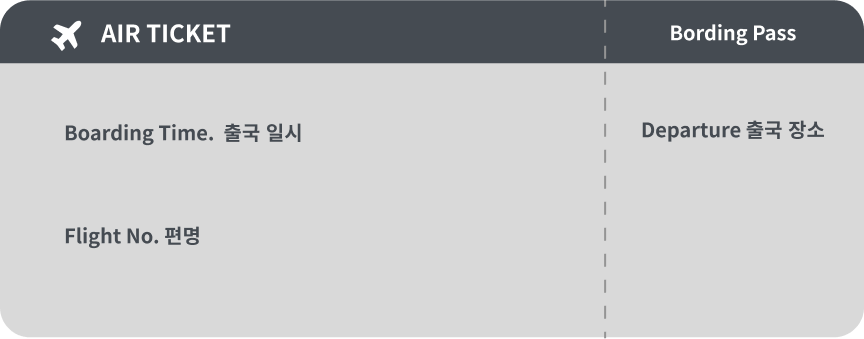
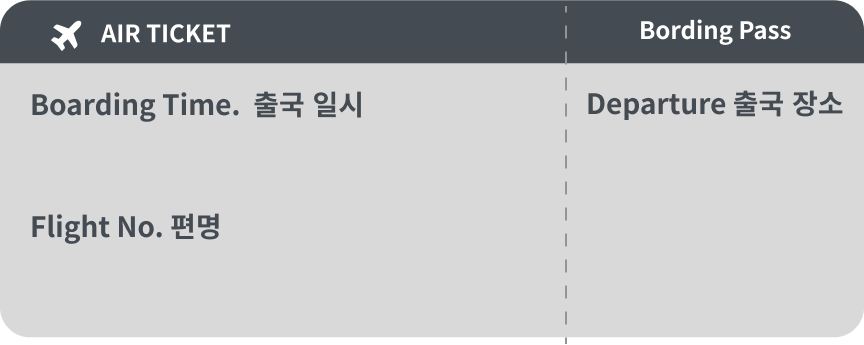
[ADD] 항공편 db html 연동

diff --git a/src/main/resources/templates/Departure.html b/src/main/resources/templates/Departure.html
@@ -6,6 +6,7 @@
     <meta name="viewport" content="width=device-width, initial-scale=1.0">
     <title>아시아나IDT- DUTYFREE</title>
     <link rel="stylesheet" type="text/css" th:href="@{/css/reset.css}">
+    <link rel="stylesheet" type="text/css" th:href="@{/css/airTicket.css}">
     <link rel="stylesheet" type="text/css" th:href="@{/css/product_detail.css}">
     <link rel="stylesheet" type="text/css" th:href="@{/css/cart.css}">
     <link rel="stylesheet" type="text/css" th:href="@{/css/passport.css}">
@@ -13,7 +14,7 @@
     <link rel="stylesheet" type="text/css" th:href="@{/css/header.css}">
     <link rel="stylesheet" type="text/css" th:href="@{/css/footer.css}">
 
-
+    <link rel="stylesheet" type="text/css" href="../static/css/airTicket.css">
     <link rel="stylesheet" type="text/css" href="../static/css/product_detail.css">
     <link rel="stylesheet" type="text/css" href="../static/css/departure.css">
     <link rel="stylesheet" type="text/css" href="../static/css/cart.css">
@@ -28,66 +29,77 @@
         crossorigin="anonymous"></script>
         <script src="https://code.jquery.com/jquery-3.6.0.min.js"></script>
     <script>
-        $(document).ready(function() {
+        function setFlight(date, code, boarding, flightId) {
+            var flightData = {
+                "flightId" : flightId,
+                "flightCode" : code,
+                "flightDate" : date,
+                "boarding" : boarding
+            };
+
+            sessionStorage.setItem("departureInfo", JSON.stringify(flightData));
+            console.log('session data:');
+            console.log(flightData);
+
+        }
+
+        function searchFlight() {
             var flightCode = $('input[name=flightCode]').val();
             var flightDate = $('input[name=flightDate]').val();
-            var boarding = $('#departAt option:selected').val();
+            var boardingEng = $('#departAt option:selected').val();
 
             var data = {
                 "flightCode" : flightCode,
                 "flightDate" : flightDate,
-                "boarding" : boarding
+                "boardingEng" : boardingEng
             };
 
-            $("#flightSearchBtn").click(function() {
-                console.log(data);
+            console.log(data);
 
-                if(airline == '' || flightDate =='' || boarding == '') {
-                    alert('항공편을 입력해주세요.');
-                }
+            if(flightCode == '' || flightDate =='' || boardingEng == '') {
+                alert('항공편을 입력해주세요.');
+            }
 
-                $.ajax({
-                    url: `http://localhost:8080/flight?flightDate=${flightDate}&flightCode=${flightCode}&boarding=${boarding}`,
-                    type: 'GET',
-                    contentType: 'application/json; charset=utf-8',
-                    success: function(result){
-                        console.log(result);
-                    },
-                    error: function(error){
-                        console.log("Error", error);
-                        alert("An error occurred");
+            $.ajax({
+                url: `http://localhost:8080/flight?flightDate=${flightDate}&flightCode=${flightCode}&boarding=${boardingEng}`,
+                type: 'GET',
+                contentType: 'application/json; charset=utf-8',
+                success: function(result){
+                    console.log(result);
+
+                    for (var data of result) {
+                        $('#ticket_list').append(
+                            `<div class="departure_div" onclick="setFlight('${data.flightDate}', '${data.flightCode}', '${data.boardingEng}', '${data.flightId}')">
+                                <img src="/img/main/departure.png" class="departure_img" alt="">
+                                <div class="departure_bordingTime">${data.flightDate}</div>
+                                <div class="departure_FlightNo">${data.flightCode}</div>
+                                <div class="departure_Departure">${data.boardingEng}</div>
+                            </div>`
+                        );
                     }
-                });
 
-            });
-
-            $("#purchaseBtn").click( function(){
-                if(airline == '' || flightDate =='' || boarding == '') {
-                        alert('항공편을 입력해주세요.');
-                        return ;
+                },
+                error: function(error){
+                    console.log("Error", error);
+                    alert("An error occurred");
                 }
-
-                sessionStorage.setItem("departInfo", JSON.stringify(data));
-                console.log(data);
-
-                $.ajax({
-                    url: "http://localhost:8080/purchase",
-                    type: 'POST',
-                    contentType: 'application/json; charset=utf-8',
-                    success: function(result){
-                        console.log(result);
-                    },
-                    error: function(error){
-                        console.log("Error", error);
-                        alert("An error occurred");
-                    }
-                });
-
             });
-    
+        }
 
-                
-        })
+        function purchase() {
+            $.ajax({
+                url: "http://localhost:8080/purchase",
+                type: 'POST',
+                contentType: 'application/json; charset=utf-8',
+                success: function(result){
+                    console.log(result);
+                },
+                error: function(error){
+                    console.log("Error", error);
+                    alert("An error occurred");
+                }
+            });
+        }
     </script>
 </head>
 
@@ -118,9 +130,10 @@
                                             <select class="form_input" id="departAt">
                                                 <option></option>
                                                 <option value="JEJU">제주</option>
-                                                <option value="SEOUL">서울/김포</option>
+                                                <option value="GIMPO">서울/김포</option>
+                                                <option value="DAEGU">대구</option>
                                                 <option value="CHEONGJU">청주</option>
-                                                <option value="">김해</option>
+                                                <option value="GIMHAE">김해</option>
                                             </select>
                                         </span>
                                     </li>
@@ -137,13 +150,13 @@
                                 </ul>                          
                             </div>
                             <div>
-                                <button class="search_departure_btn" id="flightSearchBtn">검색</button>
+                                <button class="search_departure_btn" onclick="searchFlight()">검색</button>
                             </div>
                     </div>
-                    <div class="departure_list">
-                        <div class="departure_table">
-                            
-                        </div>
+
+
+                    <!-- 티켓  -->
+                    <div class="departure_list" id="ticket_list">
                     </div>
                 </div>
                 <div class="login_box">
@@ -177,7 +190,7 @@
                             </div>
                         </div>
                         <div class="cart_btn_box">
-                            <button class="cart_buy_button" id="purchaseBtn">구매하기</button>
+                            <button class="cart_buy_button" onclick="purchase()">구매하기</button>
                         </div>
                     </div>                    
                 </div>

diff --git a/src/main/resources/static/css/airTicket.css b/src/main/resources/static/css/airTicket.css
@@ -1,32 +1,35 @@
 .departure_div {
   position: relative;
-  width: 400px;
+  width: 47%;
   height: auto;
   color: #474747;
+  margin-bottom: 20px;
 }
 .departure_img {
   width: 100%;
 }
 .departure_bordingTime {
   position: absolute;
-  top: 50px;
-  left: 200px;
+  top: 39%;
+  left: 30%;
   font-weight: 600;
-  font-size: 18px;
+  font-size: 1rem;
 }
 
 .departure_FlightNo {
   position: absolute;
-  top: 100px;
-  left: 200px;
+  top: 70%;
+  left: 30%;
   font-weight: 600;
-  font-size: 24px;
+  font-size: 1.25rem;
 }
 
 .departure_Departure {
   position: absolute;
-  top: 100px;
-  left: 300px;
+  top: 43%;
+  left: 73%;
   font-weight: 600;
-  font-size: 24px;
+  font-size: 1rem;
+  width: 19%;
+  text-align: center;
 }

diff --git a/src/main/resources/static/css/departure.css b/src/main/resources/static/css/departure.css
@@ -15,7 +15,7 @@
 }
 
 .search_departure_btn {
-    background-color: #454b52;
+background-color: #454b52;
   border: 0;
   border-radius: 5px;
   font-weight: 500;
@@ -28,5 +28,8 @@
 
 .departure_list {
     display: flex;
-    justify-content: center;
+    justify-content: space-between;
+    flex-wrap: wrap;
+    width: 52vw;
+    padding: 50px;
 }

diff --git a/src/main/resources/static/css/cart.css b/src/main/resources/static/css/cart.css
@@ -6,7 +6,6 @@ a {
 }
 .cart_body {
   width: 100vw;
-  height: 80vh;
   display: flex;
   align-items: center;
   justify-content: center;
@@ -25,7 +24,6 @@ a {
 
 .cart_content {
   width: 52vw;
-  height: 470px;
   display: flex;
   border-top: 5px solid black;
   justify-content: center;

diff --git a/src/main/resources/static/css/passport.css b/src/main/resources/static/css/passport.css
@@ -1,6 +1,5 @@
 .passport_content {
     width: 52vw;
-    height: 470px;
     display: flex;
     border-top: 5px solid black;
     flex-direction: column;

diff --git a/src/main/java/com/asianaidt/dutyfree/domain/purchase/controller/CartController.java b/src/main/java/com/asianaidt/dutyfree/domain/purchase/controller/CartController.java
@@ -1,13 +1,14 @@
 package com.asianaidt.dutyfree.domain.purchase.controller;
 
 import com.asianaidt.dutyfree.domain.member.domain.Flight;
-import com.asianaidt.dutyfree.domain.member.domain.Member;
 import com.asianaidt.dutyfree.domain.product.dto.CategoryListDto;
 import com.asianaidt.dutyfree.domain.product.dto.ProductDto;
 import com.asianaidt.dutyfree.domain.product.service.CategoryService;
 import com.asianaidt.dutyfree.domain.product.service.ProductService;
 import com.asianaidt.dutyfree.domain.purchase.dto.PurchaseDto;
 import com.asianaidt.dutyfree.domain.purchase.dto.cart.CartProductDto;
+import com.asianaidt.dutyfree.domain.purchase.dto.cart.DepartureDto;
+import com.asianaidt.dutyfree.domain.purchase.dto.cart.PassportDto;
 import com.asianaidt.dutyfree.domain.purchase.service.CartService;
 import com.asianaidt.dutyfree.domain.purchase.service.PurchaseService;
 import lombok.RequiredArgsConstructor;
@@ -76,8 +77,13 @@ public class CartController {
 
     @PostMapping("/purchase")
     public String purchase(HttpSession session, @RequestBody PurchaseDto purchaseDto) throws InterruptedException {
-        Member member = (Member) session.getAttribute("member");
-        purchaseService.purchaseMany(member, purchaseDto);
+        PassportDto passportInfo = (PassportDto) session.getAttribute("passportInfo");
+        DepartureDto departureDto = (DepartureDto) session.getAttribute("departureInfo");
+//
+//        MemberResponseDto member = (MemberResponseDto) session.getAttribute("member");
+//
+//        cartService.addDepartureInfo();
+//        purchaseService.purchaseMany(member, purchaseDto);
         return "purchase";
     }
 }

diff --git a/src/main/java/com/asianaidt/dutyfree/domain/purchase/controller/PurchaseController.java b/src/main/java/com/asianaidt/dutyfree/domain/purchase/controller/PurchaseController.java
@@ -28,6 +28,7 @@ public class PurchaseController {
                            @RequestParam int quantity) throws InterruptedException {
 
         Member member = (Member) session.getAttribute("user");
+
         purchaseService.purchase(member, productId, quantity);
 
         return "test";
